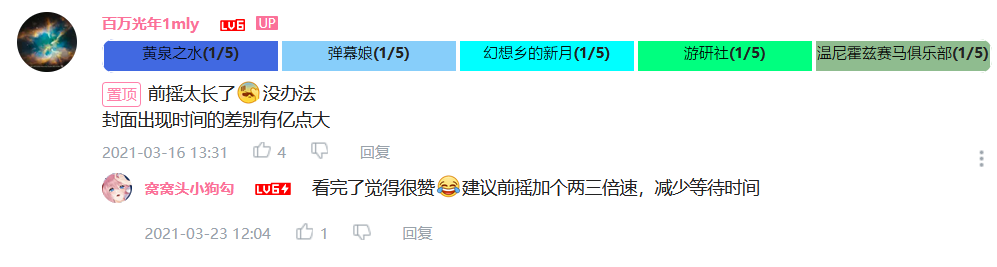
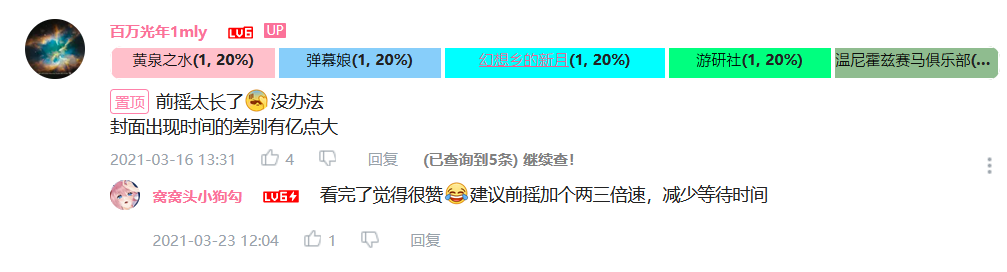
单击UP主ID链接改为默认新建标签页打开空间;更新图片以适配新改动

diff --git a/FBIOpenTheDoor.user.js b/FBIOpenTheDoor.user.js
@@ -187,7 +187,7 @@ div.con div.reply-item:hover a.${CLASS_Gateway} {
         statDOM.classList.add(CLASS_StatDOM);
         statDOM.style.backgroundColor = pallete[no];
         statDOM.style.width = `${Math.floor(this.forwardCounter[key].count / total * 100)}%`;  // 宽度与数量成比例
-        statDOM.innerHTML = `<a href='//space.bilibili.com/${key}'>${this.forwardCounter[key].name}</a>(${this.forwardCounter[key].count}, ${statDOM.style.width})`;
+        statDOM.innerHTML = `<a target="_blank" href='//space.bilibili.com/${key}'>${this.forwardCounter[key].name}</a>(${this.forwardCounter[key].count}, ${statDOM.style.width})`;
         statDOM.onmouseover = () => {
           if (this.statDOMs.length > 1)
             statDOM.style.width = `max(calc(${Math.floor(this.forwardCounter[key].count / total * 100)}%), calc(${statDOM.innerText.length + 2}em))`;  // 显示所有的字，为数字和半角括号增加冗余空间

diff --git a/README.md b/README.md
@@ -6,7 +6,11 @@
 
 Github Languages风格的指示条。
 
-鼠标移动至评论区：
+经Firefox和EDGE测试正常。
+
+### 使用方法
+
+鼠标移动至评论区（若未显示查询入口链接，请稍等几秒待脚本识别）：
 
 ![image-20220911223722513](1.png)
 
@@ -14,9 +18,17 @@ Github Languages风格的指示条。
 
 ![image-20220911223806212](2.png)
 
-按UP主分类统计转发动态条数：
+按UP主分类统计转发动态条数，单击UP主ID访问该UP主的空间：
 
 ![image-20220911223825950](3.png)
+
+评论区楼中楼也可查询！
+
+![image4](4.png)
+
+### 版本历史
+
+请查看[patch.md](patch.md)。
 
 ### 特别感谢
 

diff --git a/patch.md b/patch.md
@@ -1,3 +1,9 @@
+#### v0.3
+
+1. 增加了对于评论区楼中楼的支持；
+2. 修改了查询入口链接的位置（现在在“回复”按钮的旁边）；
+3. 现在，单击成分条里的UP主ID将默认开启新标签页打开链接。
+
 #### v0.2
 
 1. 解决了认证粉丝牌阻挡鼠标的issue；
